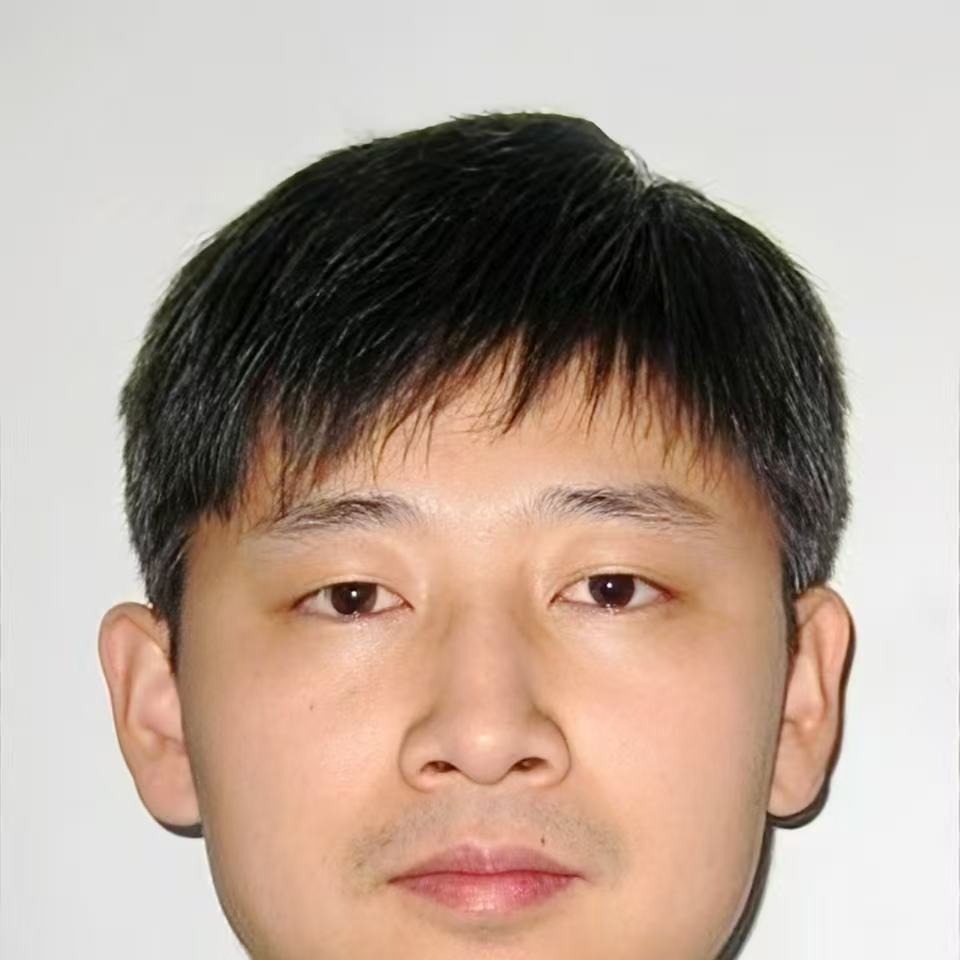
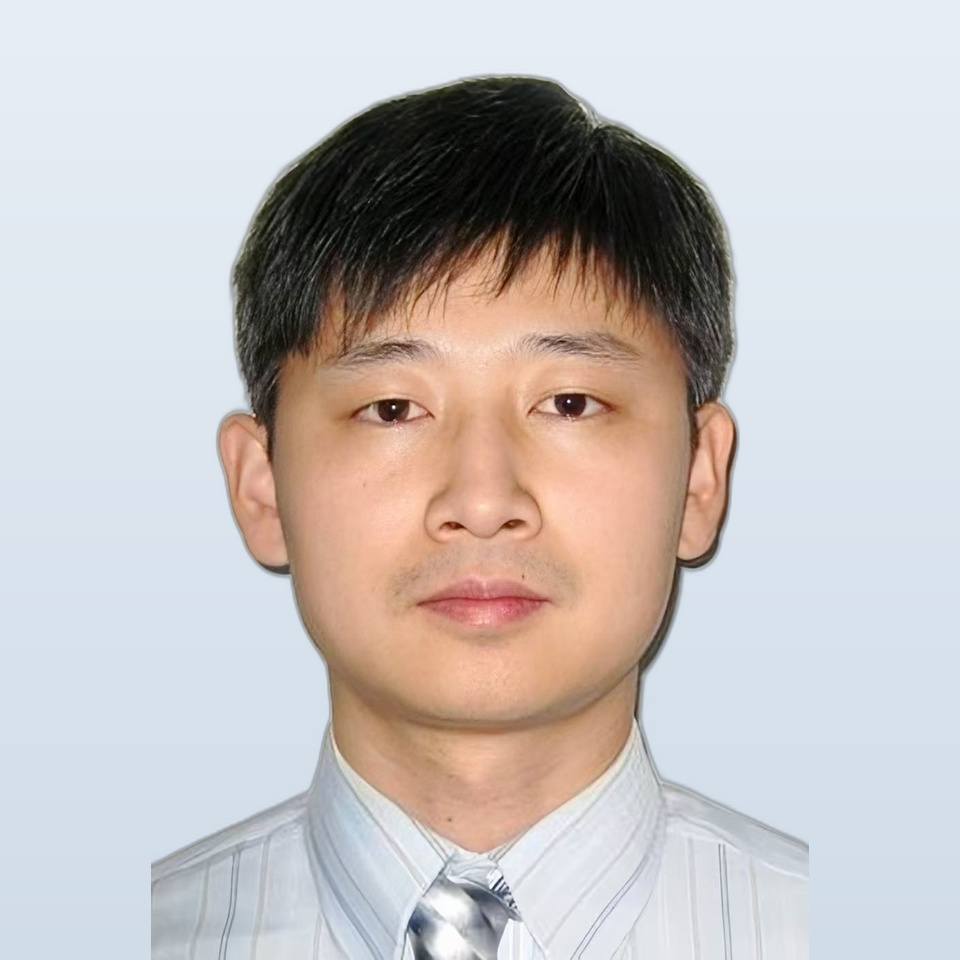
对的
1地方

diff --git a/app/page.tsx b/app/page.tsx
@@ -41,10 +41,10 @@ export default async function HomePage() {
               {/* Stats row */}
               <div className="flex flex-wrap gap-8 mb-10 text-center">
                 {[
-                  { value: '16+', label: 'Publications' },
+                  { value: '30+', label: 'Publications' },
                   { value: '4×', label: 'Nature Comms' },
                   { value: 'PRL', label: 'Phys. Rev. Lett.' },
-                  { value: 'LPR', label: 'Laser & Photonics Rev.' },
+                  { value: 'Sci. Adv.', label: 'Science Advances' },
                 ].map((stat) => (
                   <div key={stat.label}>
                     <div className="text-2xl font-bold text-blue-300">{stat.value}</div>
@@ -164,10 +164,12 @@ export default async function HomePage() {
         <section className="py-16 bg-gray-50">
           <div className="container mx-auto px-4 sm:px-6 lg:px-8">
             <h2 className="text-3xl md:text-4xl font-bold text-gray-900 mb-12 text-center">
-              Principal Investigator
+              Principal Investigators
             </h2>
-            <div className="max-w-md mx-auto">
-              <TeamMemberCard member={pi[0]} />
+            <div className={`mx-auto grid grid-cols-1 gap-6 ${pi.length >= 2 ? 'md:grid-cols-2 max-w-3xl' : 'max-w-md'}`}>
+              {pi.map((member) => (
+                <TeamMemberCard key={member.id} member={member} />
+              ))}
             </div>
             <div className="text-center mt-10">
               <Link href="/team" className="inline-block text-blue-600 hover:text-blue-800 font-semibold">

diff --git a/components/TeamMemberCard.tsx b/components/TeamMemberCard.tsx
@@ -12,13 +12,13 @@ export default function TeamMemberCard({ member, variant = 'default' }: TeamMemb
   return (
     <div className="bg-white rounded-xl shadow-md overflow-hidden hover:shadow-xl transition-shadow duration-300">
       {/* Photo */}
-      <div className={`relative ${isCompact ? 'aspect-square' : 'aspect-[3/4]'} bg-gray-100`}>
+      <div className="relative aspect-square bg-gray-100">
         {member.photo ? (
           <Image
             src={member.photo}
             alt={member.name}
             fill
-            className="object-cover"
+            className="object-cover object-top"
             sizes={isCompact ? '(max-width: 768px) 50vw, 25vw' : '(max-width: 768px) 100vw, 33vw'}
           />
         ) : (

diff --git a/app/about/page.tsx b/app/about/page.tsx
@@ -141,7 +141,7 @@ export default function AboutPage() {
         {/* ── Research focus ───────────────────────────────────── */}
         <section>
           <h2 className="text-2xl font-bold text-gray-900 mb-6">Research Focus</h2>
-          <div className="grid grid-cols-1 md:grid-cols-2 gap-5">
+          <div className="grid grid-cols-1 md:grid-cols-3 gap-5">
             {[
               {
                 cardCls: 'bg-blue-50 border-blue-100',

diff --git a/lib/notion.ts b/lib/notion.ts
@@ -116,7 +116,7 @@ export async function getTeamMembers(status?: 'Active' | 'Alumni'): Promise<Team
       } : undefined,
       sorts: [
         { property: 'Role', direction: 'ascending' },
-        { property: 'Join Year', direction: 'descending' },
+        { property: 'Join Year', direction: 'ascending' },
       ],
     });
 
